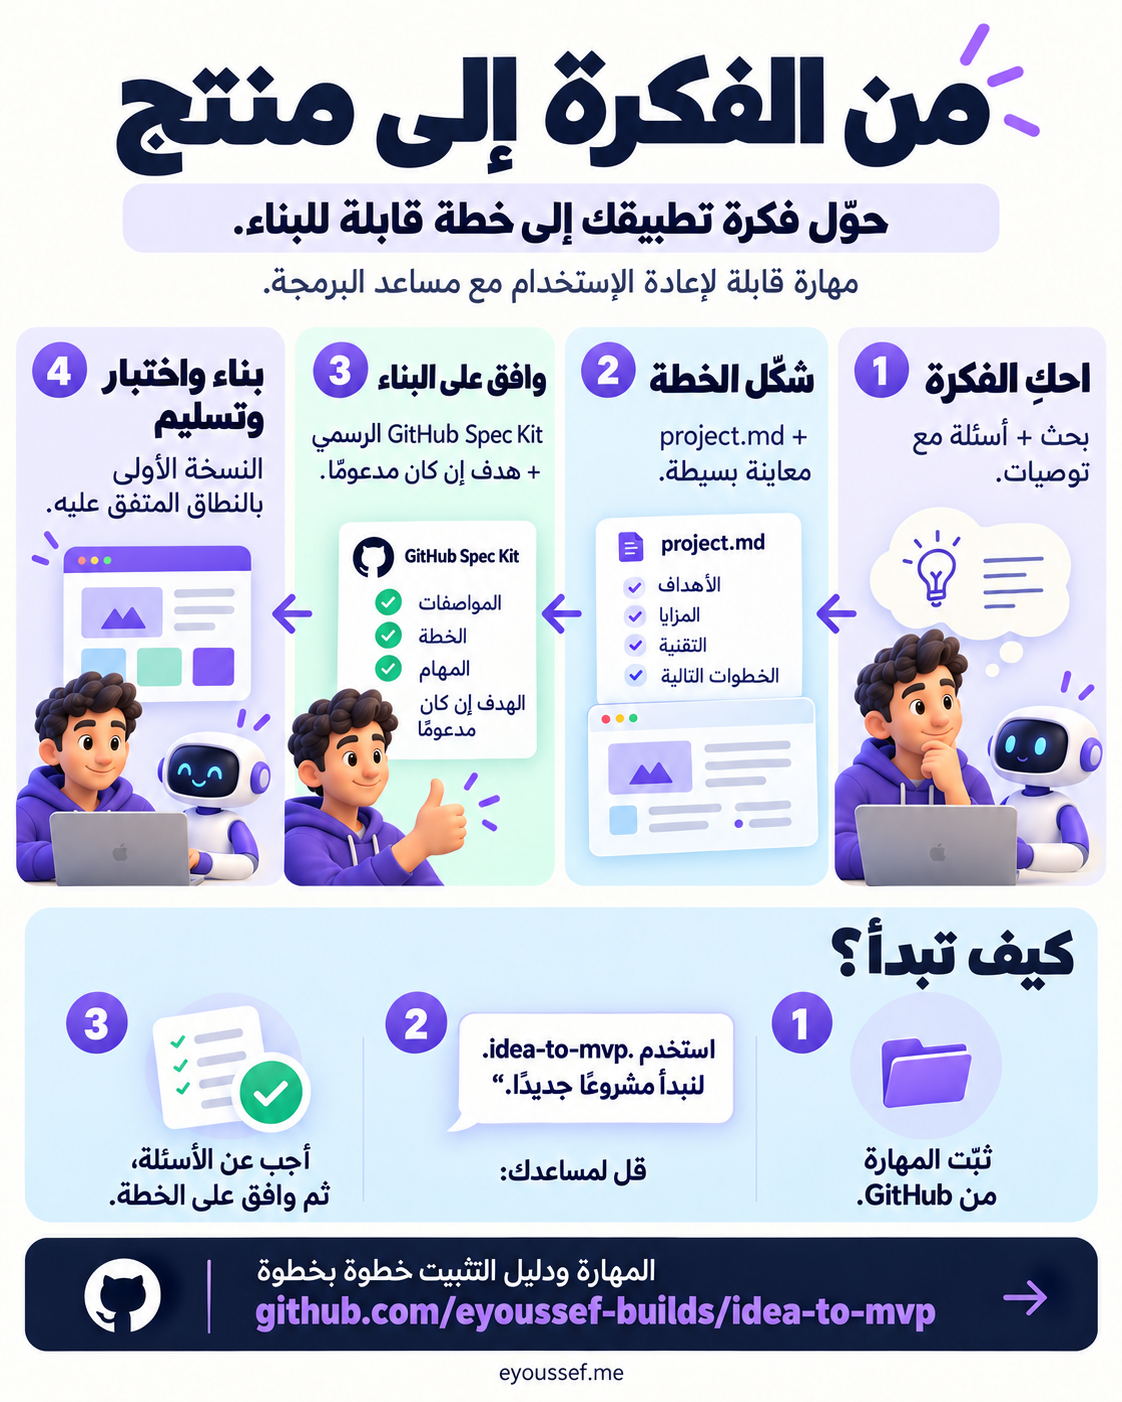
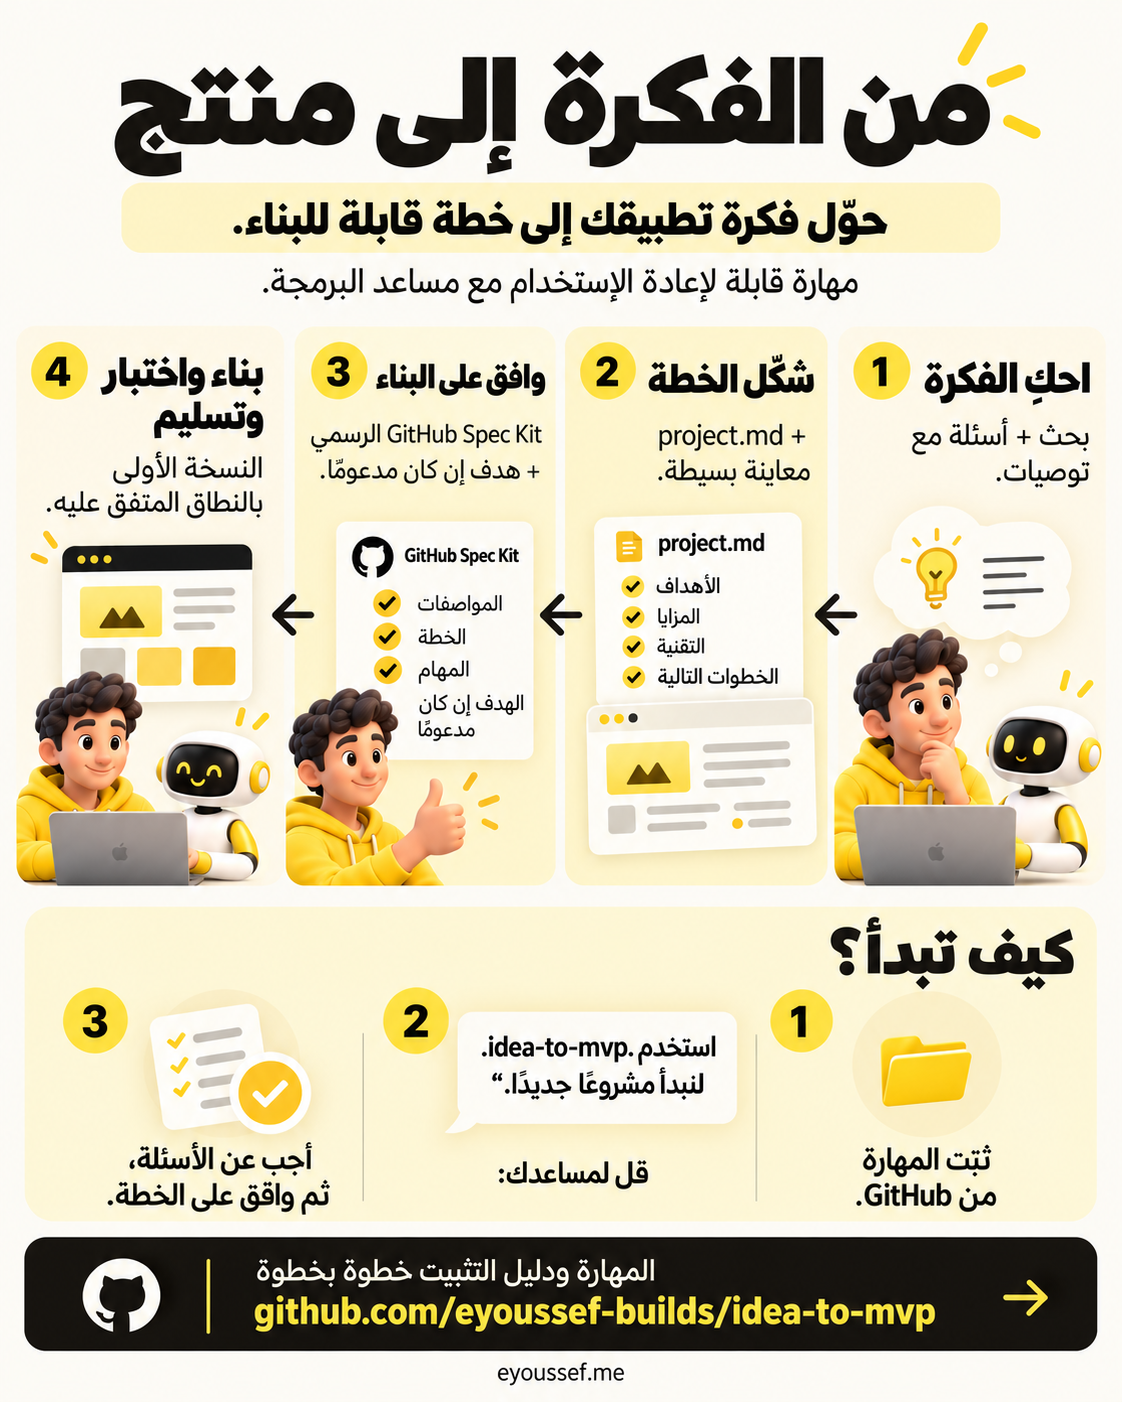
Apply approved yellow, cream and ink infographic branding

diff --git a/skills/idea-to-mvp/references/brand-style.md b/skills/idea-to-mvp/references/brand-style.md
@@ -1,0 +1,12 @@
+# Approved infographic brand
+
+The approved infographic palette is bright warm yellow **`#FFE04A`**, warm cream **`#FAF8F2`**, and ink near-black **`#15130F`**. Apply it to English and Arabic infographics, including daily recaps and public skill explainers. This supersedes the earlier navy/purple/pastel direction.
+
+- Use cream for the canvas, ink for titles/body text, and yellow for highlights, numbered steps, arrows, icons and key metrics. Supporting panels may use white, pale warm yellow or warm grayscale. Use ink text on yellow/cream; use yellow or cream text on an ink CTA.
+- Carry the palette through illustration clothing, robots, document/graph accents and panel fills. Keep natural skin/hair. Preserve real supplied product screenshots faithfully rather than recoloring their interfaces.
+- Use confident modern type, generous margins and clear editorial hierarchy. The reference typography direction is Schibsted Grotesk-style English and IBM Plex Sans Arabic-style Arabic. Keep Arabic shaped and RTL, and Western digits `0–9`, identifiers and URLs legible.
+- A restrained sun-disc cue or yellow marker underline may be used when helpful. Preserve an already approved layout, content and illustration style when the request is a color correction. Do not add a portrait, brand name, cover headline, tagline, moon strip or unrelated reference text unless requested.
+- Do not return to purple, lavender, indigo, navy, blue/cyan or mint/green as the default brand palette. A supplied real product screenshot or semantically necessary interface detail can retain its authentic colors.
+- Use this as the default for these infographic templates. An explicit current request or another user's own brand overrides it; this does not impose the creator's branding on software products being built for someone else.
+
+Only public visual specifications are recorded here. No source chat, device paths, account data, reference screenshots or private work are part of this brand note.

diff --git a/README.ar.md b/README.ar.md
@@ -7,9 +7,9 @@
 <p align="center"><a href="README.md"><b>Read this guide in English</b></a> · <a href="#installation">التثبيت</a> · <a href="#first-use">جرّبها</a> · <a href="#questions">أسئلة وأجوبة</a> · <a href="#share">شاركها</a></p>
 
 <p align="center">
-  <a href="LICENSE"><img alt="MIT license" src="https://img.shields.io/badge/license-MIT-6366f1"></a>
-  <a href="docs/agent-installation.ar.md"><img alt="Guides for 15 agents" src="https://img.shields.io/badge/agent%20guides-15-8b5cf6"></a>
-  <img alt="English and Arabic guides" src="https://img.shields.io/badge/English%20%2B%20Arabic-guides-0e9f8a">
+  <a href="LICENSE"><img alt="MIT license" src="https://img.shields.io/badge/license-MIT-15130F"></a>
+  <a href="docs/agent-installation.ar.md"><img alt="Guides for 15 agents" src="https://img.shields.io/badge/agent%20guides-15-FFE04A"></a>
+  <img alt="English and Arabic guides" src="https://img.shields.io/badge/English%20%2B%20Arabic-guides-15130F">
 </p>
 
 ---

diff --git a/README.md b/README.md
@@ -5,9 +5,9 @@
 <p align="center"><a href="README.ar.md"><b>اقرأ هذا الدليل بالعربية</b></a> · <a href="#installation">Install</a> · <a href="#first-use">Try it</a> · <a href="#questions">Questions &amp; answers</a> · <a href="#share">Share</a></p>
 
 <p align="center">
-  <a href="LICENSE"><img alt="MIT license" src="https://img.shields.io/badge/license-MIT-6366f1"></a>
-  <a href="docs/agent-installation.md"><img alt="Guides for 15 agents" src="https://img.shields.io/badge/agent%20guides-15-8b5cf6"></a>
-  <img alt="English and Arabic guides" src="https://img.shields.io/badge/English%20%2B%20Arabic-guides-0e9f8a">
+  <a href="LICENSE"><img alt="MIT license" src="https://img.shields.io/badge/license-MIT-15130F"></a>
+  <a href="docs/agent-installation.md"><img alt="Guides for 15 agents" src="https://img.shields.io/badge/agent%20guides-15-FFE04A"></a>
+  <img alt="English and Arabic guides" src="https://img.shields.io/badge/English%20%2B%20Arabic-guides-15130F">
 </p>
 
 ---

diff --git a/skills/idea-to-mvp/SKILL.md b/skills/idea-to-mvp/SKILL.md
@@ -78,3 +78,5 @@ Use the project's existing organization; these are defaults, not additional bure
 - `docs/`: architecture/module interactions, decisions, product walkthrough, verification and provider activation as needed.
 
 Keep private identity, account data and raw conversations out of shared skill packages. The optional local profile is installed separately. This skill works with host capabilities; it does not require a particular connector, native goal tool, browser, multi-agent runtime or external account.
+
+For explanatory infographics about this skill, use [the infographic brand style](references/brand-style.md). Software products being built retain the founder's own approved design direction.
